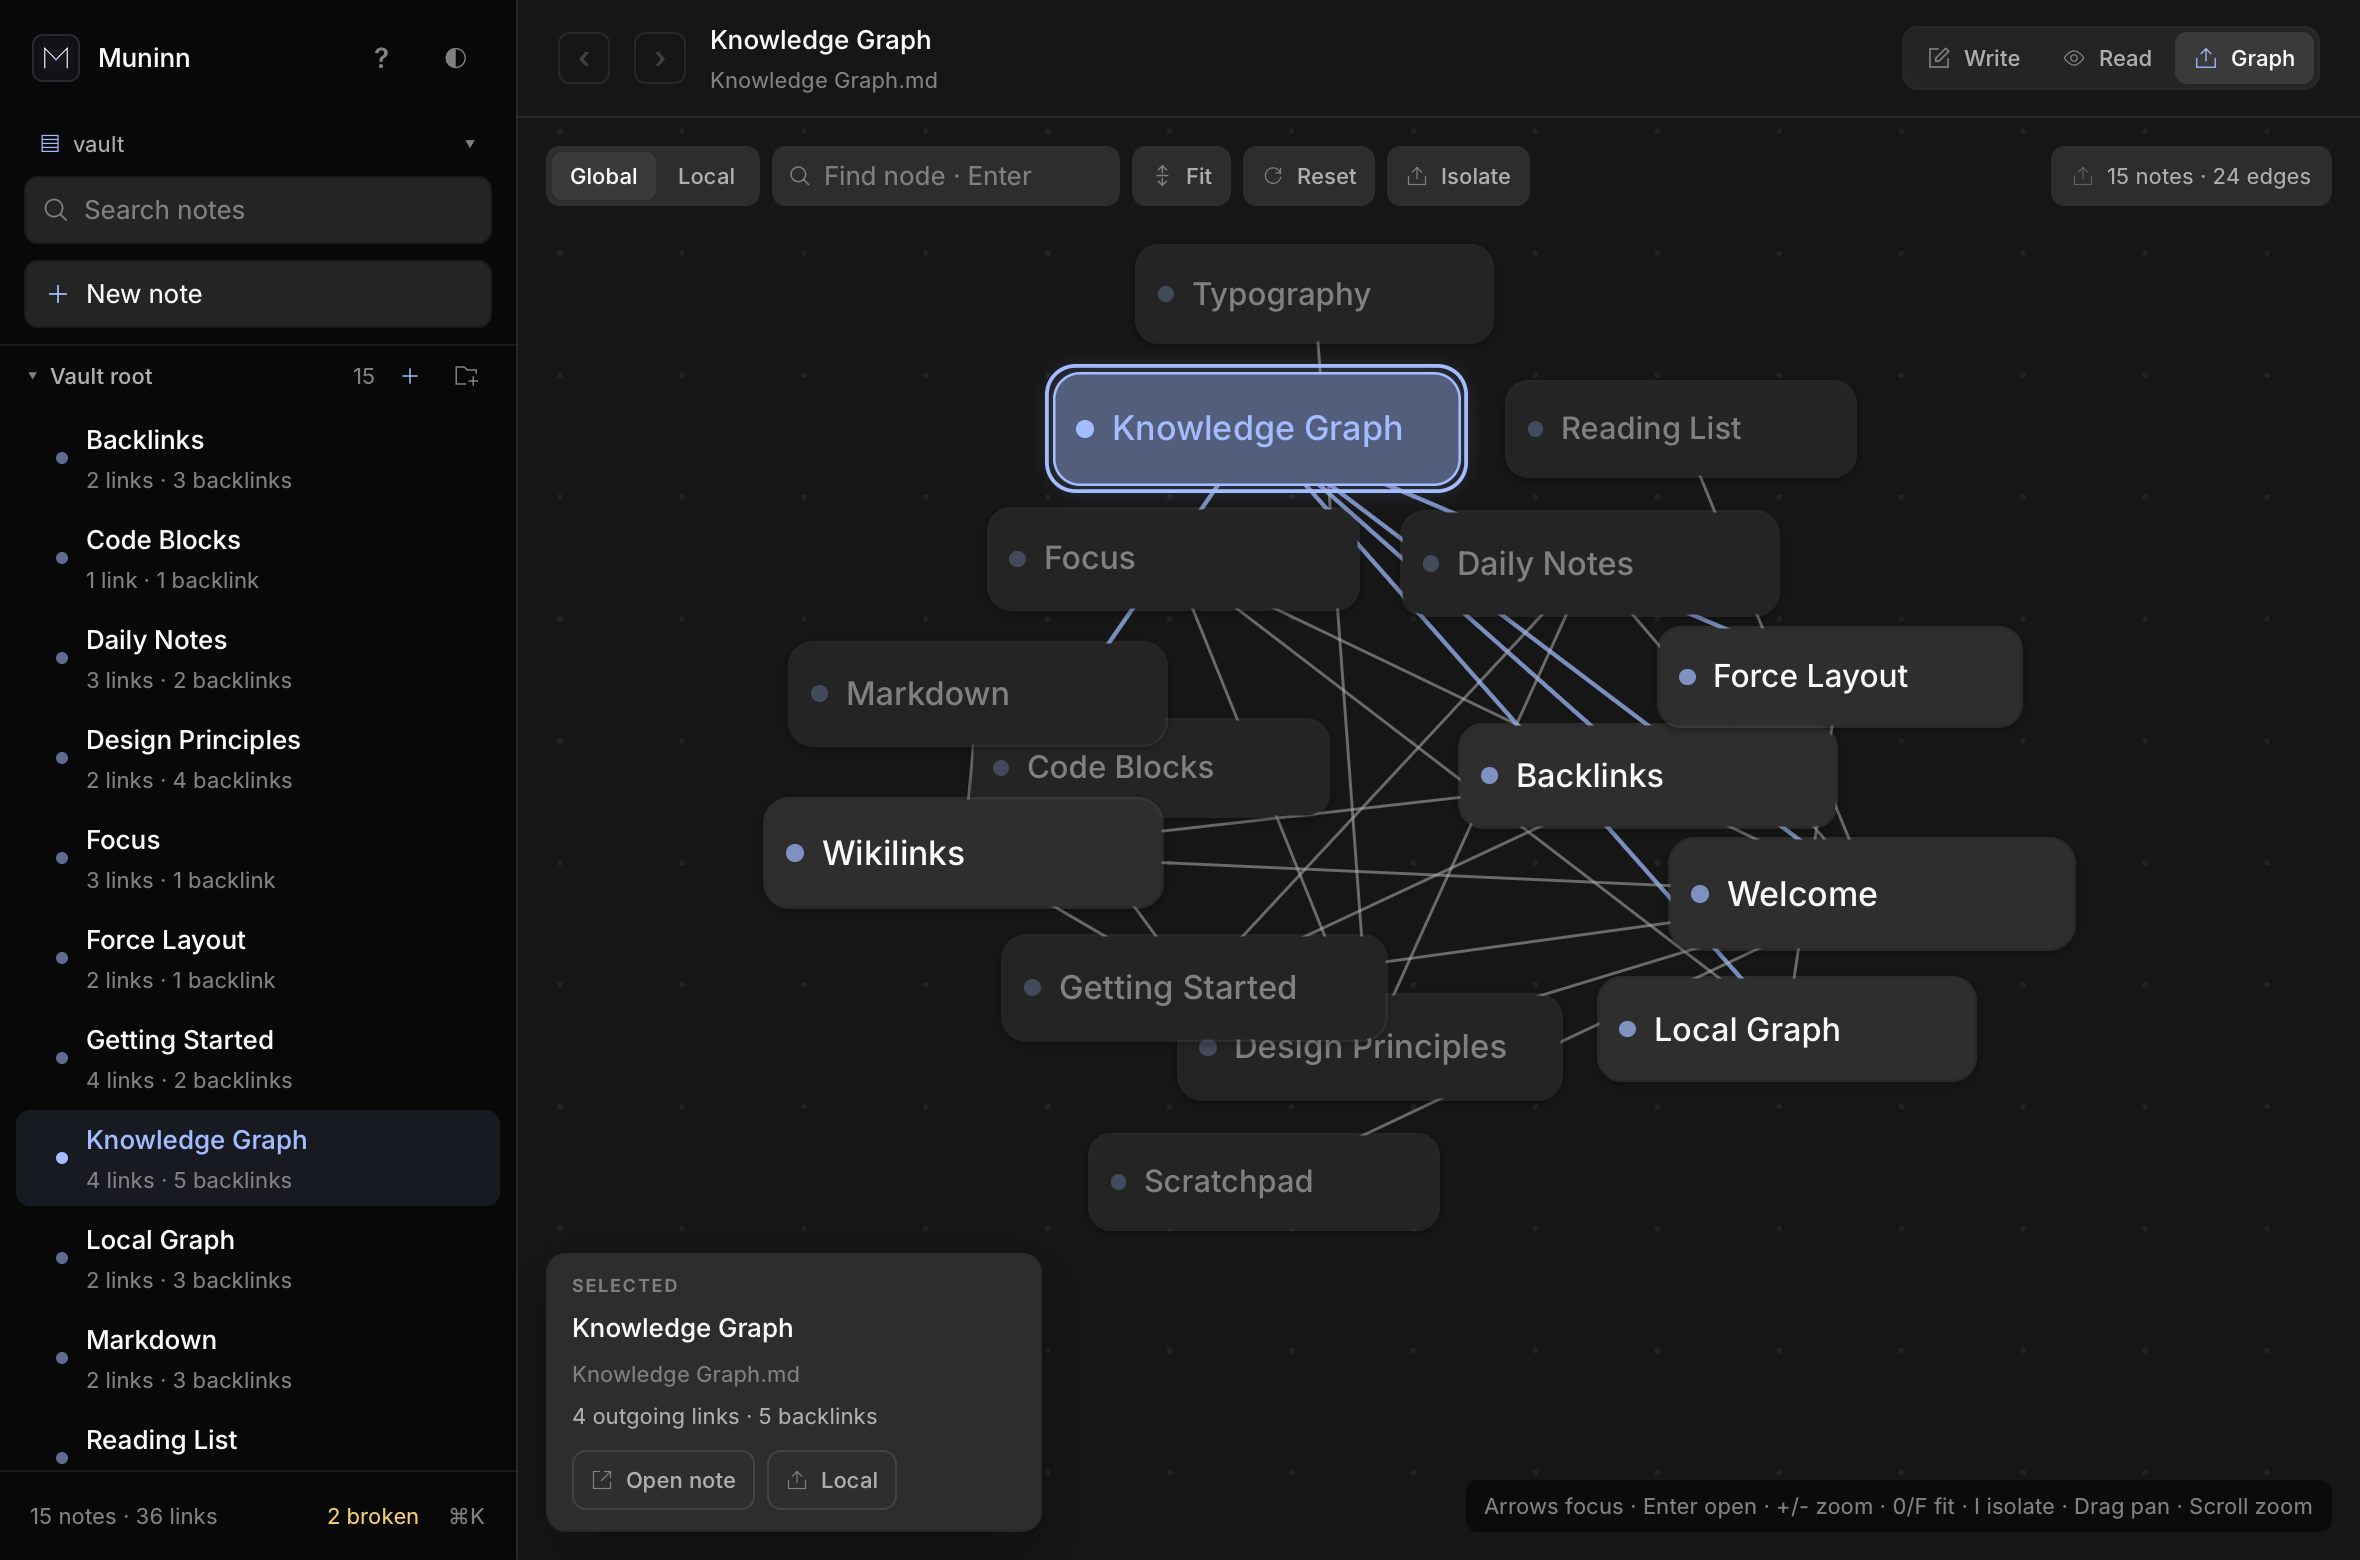
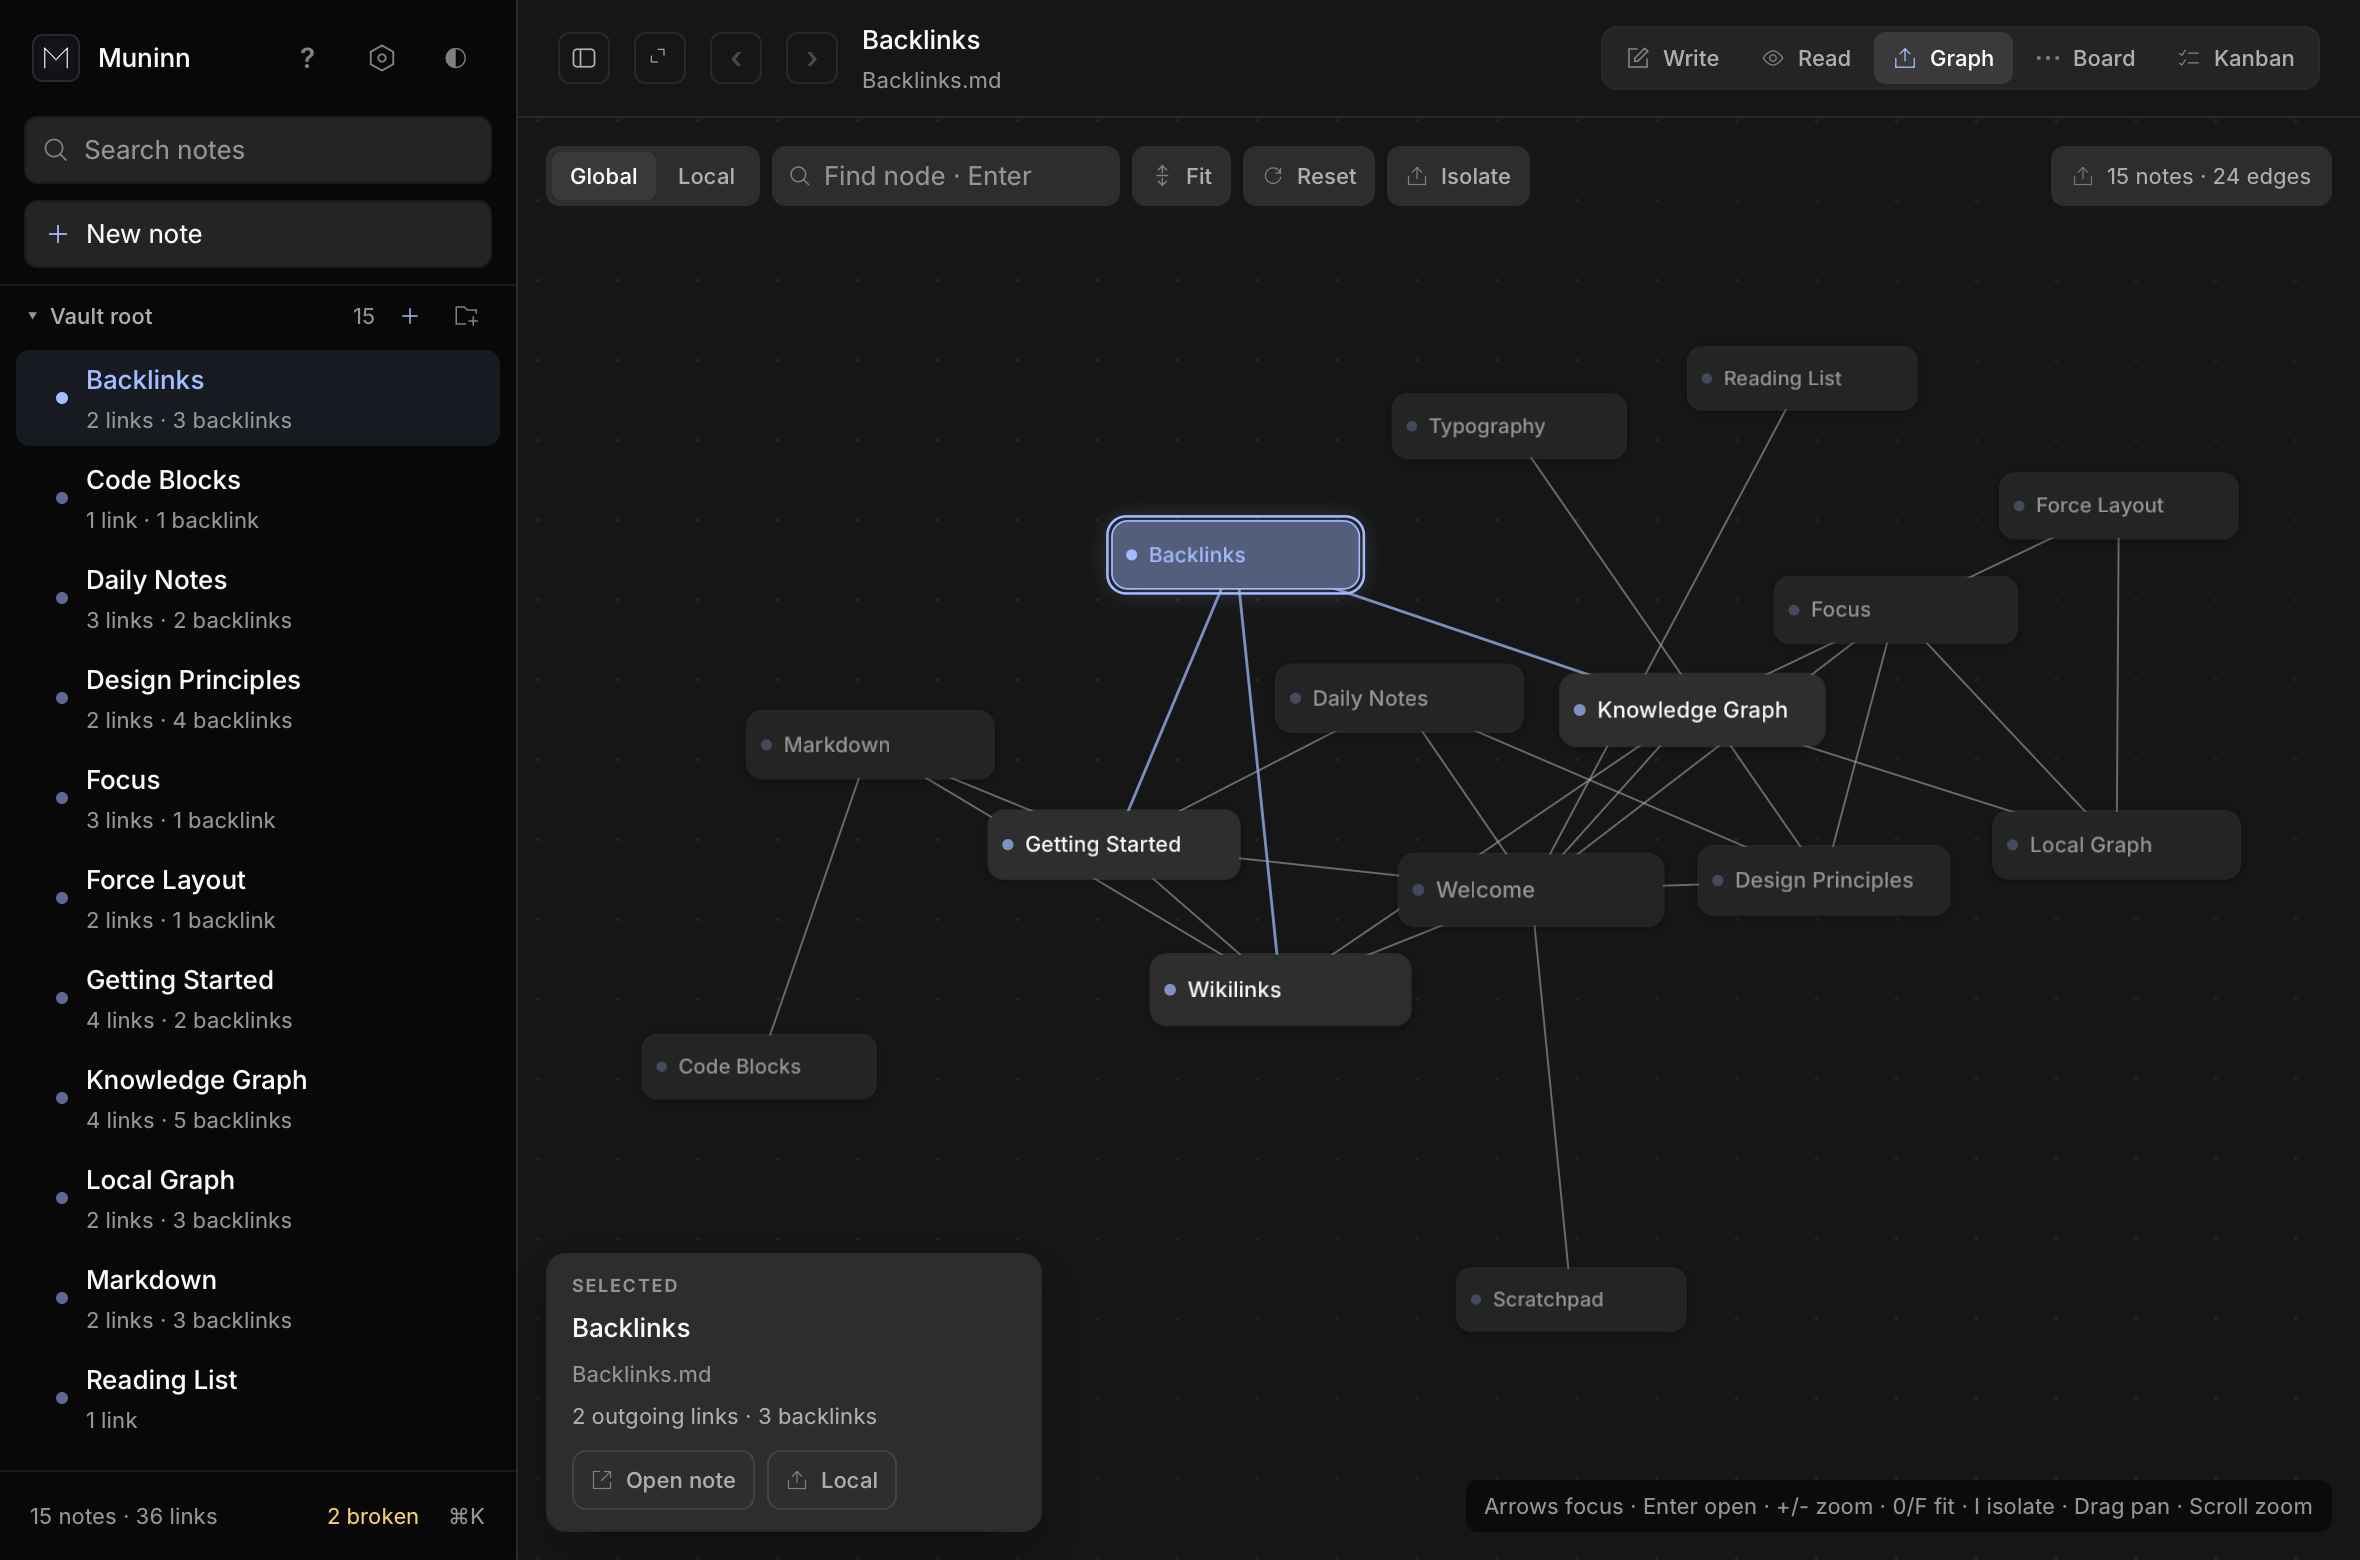
docs: refresh graph screenshots + layout notes after the spacing change
The repulsion/link-length tuning moved the settled layout, so the README's
graph/local screenshots were stale and two "sample layout stays bit-identical"
claims were no longer true. Re-record both snapshots (settled) and correct the
ARCHITECTURE + layout comments: only the exhaustive cutoff is the pre-grid
value; the tuned constants do move the graph.

Board and Kanban are unchanged by this work, so their docs (kanban-format.md,
the ARCHITECTURE board section) stay accurate.

diff --git a/crates/muninn-graph/src/layout.rs b/crates/muninn-graph/src/layout.rs
@@ -30,12 +30,13 @@ pub const NODE_W: f32 = 136.0;
 pub const NODE_H: f32 = 38.0;
 
 const REPULSION: f32 = 13000.0;
-/// Small vaults keep the original exhaustive 800 cutoff, bit for bit, so the
-/// sample vault, its snapshots and the small deterministic tests do not move.
-/// Above this many nodes the cutoff tapers with `1/sqrt(n)`: a 2000-note
-/// world cannot afford 800 (it is wider than the world, so no pair pruning),
-/// and the omitted far wake is below gravity at ordinary displacements while
-/// the grid keeps the result deterministic.
+/// Small vaults keep the exhaustive 800 cutoff (this constant is unchanged);
+/// above this many nodes it tapers with `1/sqrt(n)` so a 2000-note world can
+/// afford the pass (800 exceeds the world, leaving no pair pruning). The
+/// omitted far wake stays below gravity at ordinary displacements while the
+/// grid keeps the result deterministic. (Repulsion and link length were later
+/// retuned for spacing, so the settled graph does move from its pre-tuning
+/// self; only this cutoff is the pre-grid value.)
 const EXHAUSTIVE_LIMIT: usize = 200;
 const REPULSION_CUTOFF_SMALL: f32 = 800.0;
 const REPULSION_CUTOFF_MIN: f32 = 220.0;

diff --git a/ARCHITECTURE.md b/ARCHITECTURE.md
@@ -56,7 +56,9 @@ The `muninn` binary's headless `--check` and `--list-links` paths read `muninn-c
    once heat is zero and no node moves faster than 0.4 pt/step. Dormancy freezes positions
    with a bounded sub-pixel residual, so `poll` can sleep; `reheat` (drag, scope/mode
    change, resync) resumes the simulation. A 2,000-note fixture goes quiet by frame ~2,600;
-   the exhaustive ≤200-note path and the sample layout stay bit-identical.
+   the exhaustive ≤200-note path is unchanged by the grid optimisation, but its repulsion
+   and link length were later retuned for spacing, so the sample graph moved and its
+   snapshots were re-recorded.
 4. **Render.** `muninn_ui::view` builds the Rune element tree from `State`. The graph camera
    publishes pan/zoom through `Live` values so a drag redraws without rebuilding the tree.
    Selecting a node or changing scope starts a spring camera glide held in `State` (never in
